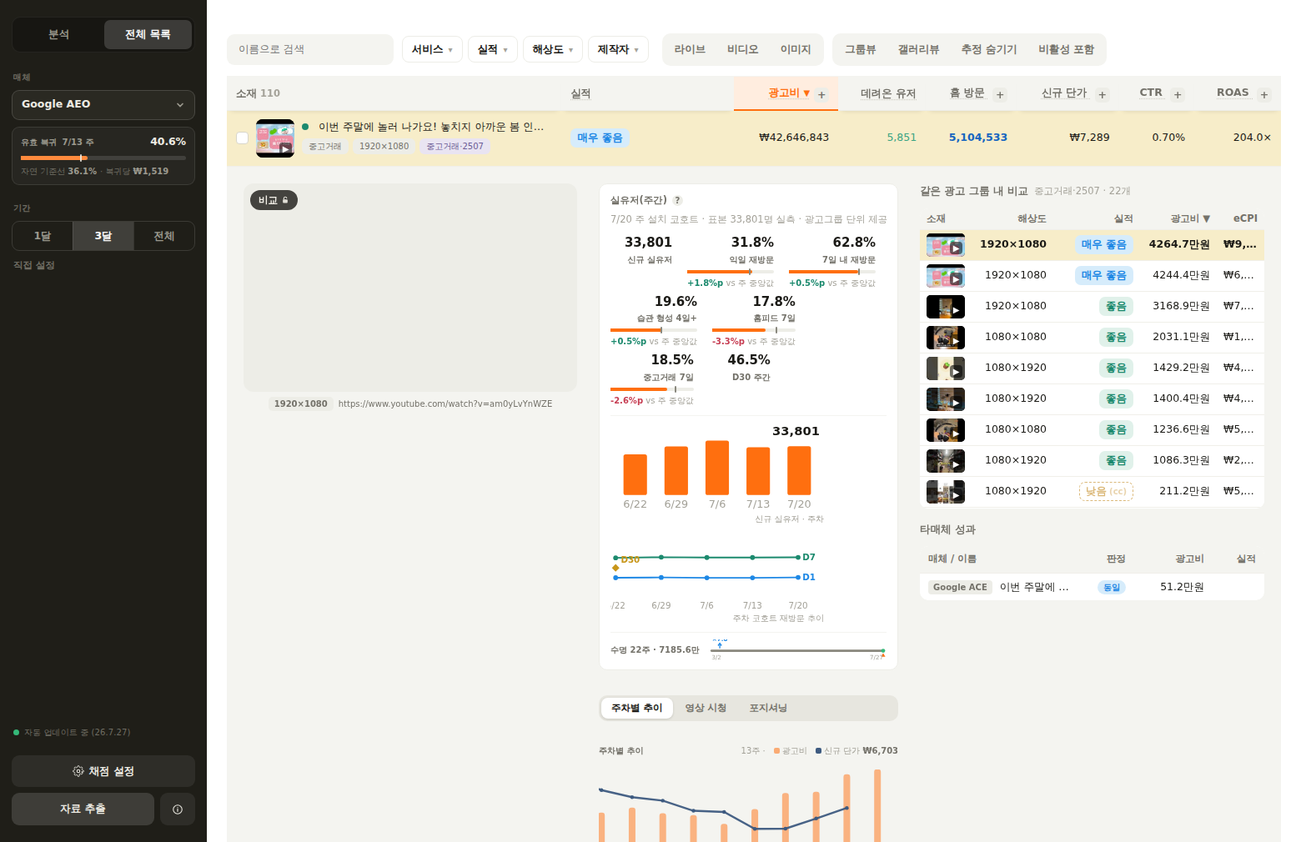
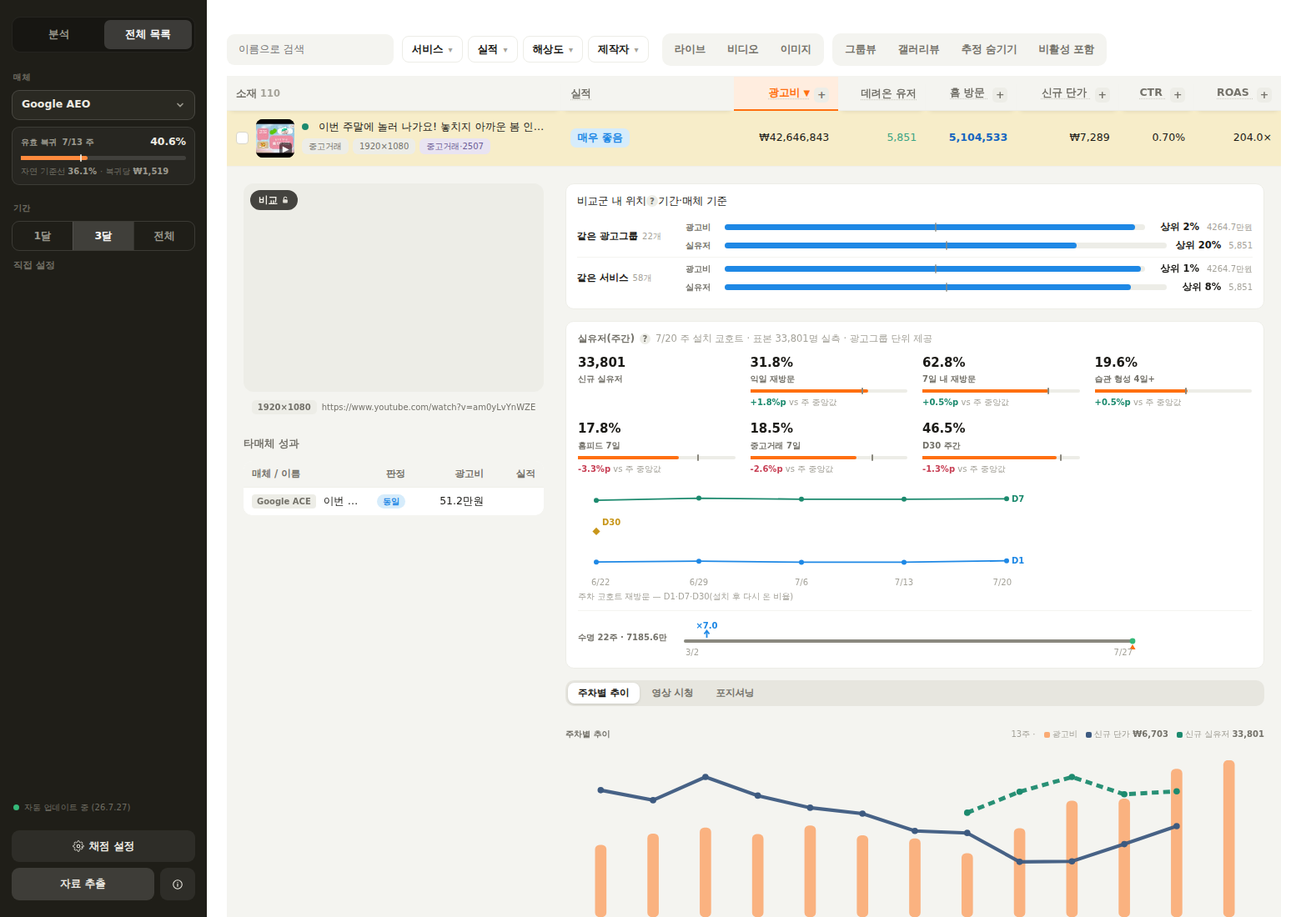
소재 상세 재편 — 2열 구성 · 비교군 백분위 신설 · 중복 차트 통합
레이아웃:
- 3열 → 2열. [미리보기 + 타매체 성과] | [실증·그래프]. 타매체 성과는 같은 소재의 다른
  매체 버전이라 미디어 바로 아래로 이동
- '같은 광고그룹 내 비교' 목록 제거 — 그룹 안 상대 위치는 새 백분위 블록이 더 압축적으로
  답한다(목록 22행 대신 막대 2개)

비교군 내 위치(신설):
- 같은 광고그룹·같은 서비스 두 비교군에서 광고비(예산이 몰린 정도)와 실유저(실제 데려온 수)의
  백분위를 한 줄 막대로. 회색 눈금=비교군 중앙값, "상위 N%" 병기
- 실유저 기준은 표의 '데려온 유저'와 동일(구글=first_open, 몰로코·메타=신규+재활성).
  채점용 규모축은 구글에서 노출이라 쓰지 않음 — 사용자가 보는 수치와 어긋나므로

차트 통합·가독성:
- 신규 실유저를 별도 막대차트로 두지 않고 주차별 추이에 초록 점선으로 합침(같은 주차 축).
  실유저 블록에는 성격이 다른 코호트 재방문(D1·D7·D30)만 남김
- 재방문 추이는 y축을 0이 아닌 실제 값 범위로 — 라인차트라 0 기준이 필수가 아니고 그래야
  주 단위 변화가 보인다. 폭·높이 비율도 변화가 읽히게 조정
- 라이프사이클 타임라인의 잘린 라벨 수정(위·아래 여백 확보), 재방문 축 양끝 라벨 안쪽 정렬
- 상세는 표 td 안이라 text-align:right가 상속된다 — 블록 루트에서 끊어 값·라벨 우측 쏠림 해소
- 스탯을 균등 그리드로 정렬하고 D30에도 중앙값 대비 막대를 붙여 형식 통일

Claude-Session: https://claude.ai/code/session_01MTtavjs5eMP9qoMEN7bzkC

diff --git a/index.html b/index.html
@@ -243,13 +243,29 @@
   .glb-lgd{display:flex;gap:12px;flex-wrap:wrap;font-size:var(--fs-1);color:var(--muted);margin-top:7px}
   .glb-lgd i{display:inline-block;width:8px;height:8px;border-radius:2px;margin-right:4px;vertical-align:-1px}
 
+  /* 비교군 내 위치 — 같은 광고그룹·서비스에서의 백분위 */
+  .peer{padding:11px 13px;background:var(--surface);border:1px solid var(--surface-3);border-radius:10px;text-align:left}
+  .peer .us-h{margin-bottom:8px}
+  .peer-g{display:grid;grid-template-columns:118px minmax(0,1fr);gap:12px;align-items:center;padding:5px 0}
+  .peer-g+.peer-g{border-top:1px solid var(--surface-2)}
+  .peer-gl{font-size:var(--fs-2);font-weight:700;color:var(--ink);white-space:nowrap;overflow:hidden;text-overflow:ellipsis}
+  .peer-gl em{font-style:normal;font-weight:500;color:var(--faint);font-size:var(--fs-1);margin-left:5px}
+  .peer-bars{display:flex;flex-direction:column;gap:5px;min-width:0}
+  .peer-row{display:grid;grid-template-columns:38px minmax(40px,1fr) 56px max-content;align-items:center;gap:9px;font-size:var(--fs-1)}
+  .peer-row .pr-k{color:var(--muted);font-weight:650;white-space:nowrap}
+  .peer-row .pr-b{position:relative;height:7px;border-radius:4px;background:var(--surface-3)}
+  .peer-row .pr-b i{display:block;height:100%;background:var(--g2);border-radius:4px;min-width:2px}
+  .peer-row .pr-b u{position:absolute;left:50%;top:-2px;bottom:-2px;width:2px;background:var(--mid);opacity:.7;border-radius:1px}
+  .peer-row .pr-v{font-size:var(--fs-2);font-weight:750;color:var(--ink);white-space:nowrap;text-align:right}
+  .peer-row .pr-x{color:var(--faint);white-space:nowrap}
+
   /* 소재 상세 — 실유저(주간) 블록: 그래프 탭 위 상시 노출 스트립 */
-  .umet-strip{margin:0 0 14px;padding:11px 13px;background:var(--surface);border:1px solid var(--surface-3);border-radius:10px}
+  .umet-strip{margin:0;padding:12px 14px;background:var(--surface);border:1px solid var(--surface-3);border-radius:10px;text-align:left}
   .umet-strip .us-h{font-size:var(--fs-2);font-weight:700;color:var(--muted);display:flex;align-items:center;gap:6px;flex-wrap:wrap}
   .umet-strip .us-h .n{font-weight:500;color:var(--faint)}
   .umet-strip .us-h .uc-q{width:13px;height:13px}
-  .umet-stats{display:flex;gap:4px 18px;flex-wrap:wrap;margin-top:8px}
-  .umet-stat{min-width:74px}
+  .umet-stats{display:grid;grid-template-columns:repeat(auto-fit,minmax(178px,1fr));gap:13px 18px;margin-top:9px}
+  .umet-stat{min-width:0}
   .umet-stat .us-v{font-size:var(--fs-4);font-weight:750;letter-spacing:-.01em;display:block}
   .umet-stat .us-k{font-size:var(--fs-1);color:var(--muted);font-weight:600;display:block;margin-top:1px;white-space:nowrap}
   .umet-stat .us-bar{position:relative;height:4px;border-radius:2px;background:var(--surface-3);margin-top:5px;overflow:visible;min-width:64px}
@@ -259,7 +275,7 @@
   .umet-stat .us-d b{font-weight:700}
   /* 상세 블록 확장 — 주차 추이 미니차트 · 소재별 유효 복귀 · 라이프사이클 */
   .us-charts{display:flex;gap:18px;flex-wrap:wrap;margin-top:10px;padding-top:9px;border-top:1px solid var(--surface-2)}
-  .us-mini{flex:1 1 200px;min-width:186px;max-width:256px} /* viewBox 폭(200·248)에 맞춰 배율≈1 유지 */
+  .us-mini{width:100%;max-width:560px} /* viewBox 폭 560에 맞춰 배율≤1 — 글자가 확대되지 않게 */
   .us-mini svg{display:block;width:100%;height:auto}
   .us-cap{font-size:var(--fs-1);color:var(--faint);display:block;margin-top:2px}
   .us-sec{display:flex;align-items:center;gap:10px;margin-top:9px;padding-top:8px;border-top:1px solid var(--surface-2)}
@@ -272,7 +288,7 @@
   .us-rbar u{position:absolute;top:-2px;bottom:-2px;width:2px;background:var(--ink);opacity:.65;border-radius:1px}
   .us-rrow b{font-weight:750}
   .us-cpv{font-size:var(--fs-1);color:var(--muted)}
-  .us-life{flex:1;min-width:0;display:block;height:auto;max-width:300px}
+  .us-life{flex:1;min-width:0;display:block;height:auto;max-width:560px}
 
   svg.chart{display:block;overflow:visible;max-width:100%}
   .axis text{font-size:var(--fs-1);fill:var(--faint)} .gl{stroke:#E6E5DE;stroke-dasharray:2 3}
@@ -666,16 +682,14 @@
      미디어 프레임은 소재 비율에 따라 3종(ar-v 세로 / ar-s 정방 / ar-h 가로)으로 폭·높이 전환 */
   .isle{position:sticky;left:0;box-sizing:border-box;padding:20px;min-width:0}
   /* 한 줄 3열: [미리보기 | 주차별 추이+지표별 위치(세로) | 같은 그룹 비교] — 모바일은 중요도 순 스택 */
-  .isle-row3{display:grid;gap:26px;align-items:start;
-    grid-template-columns:280px minmax(0,1fr) minmax(0,1.25fr);
-    grid-template-areas:"media mid cmp"}
-  .isle.ar-v .isle-row3{grid-template-columns:232px minmax(0,1fr) minmax(0,1.25fr)}
-  .isle.ar-h .isle-row3{grid-template-columns:400px minmax(0,1fr) minmax(0,1.15fr)}
-  .isle-row3.nomedia{grid-template-columns:minmax(0,1fr) minmax(0,1.4fr);grid-template-areas:"mid cmp"}
-  .isle-row3>*{min-width:0}
-  .ir-media{grid-area:media;display:flex;flex-direction:column;gap:6px;min-width:0}
-  .ir-mid{grid-area:mid;display:flex;flex-direction:column;gap:16px;min-width:0}
-  .ir-cmp{grid-area:cmp}
+  /* 상세 2열 — [미리보기 + 타매체 성과] | [실증·그래프]. 그룹 내 비교 목록은 '비교군 내 위치'가 대신한다 */
+  .isle-row2{display:grid;gap:26px;align-items:start;grid-template-columns:300px minmax(0,1fr)}
+  .isle.ar-v .isle-row2{grid-template-columns:250px minmax(0,1fr)}
+  .isle.ar-h .isle-row2{grid-template-columns:360px minmax(0,1fr)}
+  .isle-row2.nomedia{grid-template-columns:minmax(0,1fr)}
+  .isle-row2>*{min-width:0}
+  .ir-media{display:flex;flex-direction:column;gap:10px;min-width:0}
+  .ir-mid{display:flex;flex-direction:column;gap:14px;min-width:0}
   .isle-frame{width:100%;height:280px;background:var(--surface-3);border-radius:12px;display:grid;place-items:center;overflow:hidden;position:relative}
   .isle.ar-v .isle-frame{height:396px}
   .isle.ar-h .isle-frame{height:250px}
@@ -760,14 +774,13 @@
   .meta-pv-t{font-size:var(--fs-4);font-weight:800;color:#1b4bd8}
   .meta-pv-s{font-size:var(--fs-2);color:var(--muted);font-weight:600;max-width:210px;line-height:1.4}
   .tthumb.meta-th{background:#1b3a8f;color:#fff;font-size:var(--fs-1);font-weight:800;letter-spacing:.3px;cursor:default}
-  @media(max-width:1200px){.isle-row3{gap:20px}
-    .isle-row3,.isle.ar-v .isle-row3{grid-template-columns:260px minmax(0,1fr) minmax(0,1.25fr)}
-    .isle.ar-h .isle-row3{grid-template-columns:320px minmax(0,1fr) minmax(0,1.15fr)}}
+  @media(max-width:1200px){.isle-row2{gap:20px}
+    .isle-row2,.isle.ar-v .isle-row2{grid-template-columns:250px minmax(0,1fr)}
+    .isle.ar-h .isle-row2{grid-template-columns:340px minmax(0,1fr)}}
   /* 좁은 폭: 미리보기 → 비교 → 추이·지표 순 1열, 프레임 폭 캡으로 회색 여백 방지 */
   @media(max-width:860px){
     .isle{padding:16px 14px}
-    .isle-row3,.isle.ar-v .isle-row3,.isle.ar-h .isle-row3{grid-template-columns:1fr;gap:18px;grid-template-areas:"media" "cmp" "mid"}
-    .isle-row3.nomedia{grid-template-columns:1fr;grid-template-areas:"cmp" "mid"}
+    .isle-row2,.isle.ar-v .isle-row2,.isle.ar-h .isle-row2{grid-template-columns:1fr;gap:18px}
     .ir-media .isle-frame{max-width:320px;margin:0 auto}
     .isle.ar-h .ir-media .isle-frame{max-width:420px}
     .ir-media .asset-src{text-align:center}}
@@ -3649,6 +3662,17 @@ function creativeTrendHTML(ds,e){
     const mx=Math.max(...vals.filter(v=>v!=null))*1.12||1;
     let last=null;for(let i=vals.length-1;i>=0;i--)if(vals[i]!=null){last=vals[i];break;}
     lines.push({lab:sp.lab,w:sp.w,col:LINE_COLS[lines.length],fmt:wm.fmt,vals,mx,last});}
+  /* 실증 신규 실유저(umetrics) — 별도 차트를 두지 않고 같은 주차 축에 얹는다.
+     소재당 몇 주치만 있는 부분 데이터라 선은 값이 있는 구간만 이어진다 */
+  {const _tr=(typeof umTrendFor==="function")?umTrendFor(ds,e):null;
+    if(_tr&&_tr.weeks.length){
+      const m=new Map(_tr.weeks.filter(o=>o.nu!=null).map(o=>[o.w,o.nu]));
+      if(m.size>=2){
+        const vals=ws.map(w=>m.has(w)?m.get(w):null);
+        const mx=Math.max(...m.values())*1.12||1;
+        let last=null;for(let i=vals.length-1;i>=0;i--)if(vals[i]!=null){last=vals[i];break;}
+        tipSpecs.push({lab:"신규 실유저",w:0,fmt:fmtInt,vals});
+        lines.push({lab:"신규 실유저",w:0,col:"var(--g1)",fmt:fmtInt,vals,mx,last,dash:1});}}}
   /* 주별 실적 라벨(구글 실측 — 그 주 리포트의 실적 값) — 날짜 밑 한 줄로 추이를 라벨과 함께 읽는다 */
   const _plW={};
   if(!e._isGroup){const _nc=ds.L.nameCol;
@@ -3682,7 +3706,7 @@ function creativeTrendHTML(ds,e){
       const x=xat(i),y=pt+(1-v/ln.mx)*ih;
       p+=st?` L ${x.toFixed(1)} ${y.toFixed(1)}`:`M ${x.toFixed(1)} ${y.toFixed(1)}`;st=true;
       dots+=`<circle cx="${x.toFixed(1)}" cy="${y.toFixed(1)}" r="1.4" fill="${ln.col}"/>`;});
-    s+=`<path d="${p}" fill="none" stroke="${ln.col}" stroke-width="1.5" stroke-opacity="0.95"/>${dots}`;}
+    s+=`<path d="${p}" fill="none" stroke="${ln.col}" stroke-width="${ln.dash?1.8:1.5}"${ln.dash?' stroke-dasharray="3 2"':''} stroke-opacity="0.95"/>${dots}`;}
   /* 범례는 최소한으로: 주 수 · 색=지표 매핑 · 최신값. 비율·설명은 푸터/툴팁이 담당(중복 금지) */
   const leg=lines.map(ln=>`<span><i class="lgd" style="background:${ln.col}"></i>${ln.lab} <b>${ln.last!=null?ln.fmt(ln.last):"–"}</b></span>`).join(" ");
   return `<div class="ispark"><div class="ispark-h">주차별 추이 <span>${ws.length}주 · <i class="lgd" style="background:var(--karrot);opacity:.55"></i>광고비 ${leg}</span></div><div class="ispark-scroll"><svg class="ispark-svg" viewBox="0 0 ${W} ${H}" style="width:${Math.round(W*1.6)}px;min-width:100%;height:auto">${s}</svg></div></div>`;}
@@ -3873,6 +3897,54 @@ function qualityHTML(ds,e){
 /* ═════ 소재 상세 — 실유저(주간) 블록: umetrics weeks.{주차}.cohort 실증치 ═════
    "매체|소재"(구글은 "[그룹] 광고그룹명") 키로 최신 주부터 조회. 값 없으면 미렌더.
    각 % 통계엔 그 주 전체 코호트 분포로 만든 막대(0~주 최대)와 중앙값 눈금을 붙여 한눈에 상대 위치를 읽게 한다 */
+/* ═════ 비교군 내 위치 — 같은 광고그룹 / 같은 서비스에서 이 소재의 수준 ═════
+   "이 소재가 잘한 건가?"는 절대값이 아니라 또래 대비로만 답할 수 있다. 두 비교군(같은 광고그룹·같은 서비스)에서
+   광고비(예산이 얼마나 몰렸나)와 실유저(실제로 몇 명을 데려왔나)의 백분위를 한 줄 막대로 보여준다.
+   막대 채움=백분위(오른쪽일수록 상위), 회색 눈금=비교군 중앙값 위치(항상 50%), 값은 텍스트로 병기. */
+function peerRankHTML(ds,e){
+  if(!ds||!e||e._isGroup)return "";
+  /* '실유저' = 표의 '데려온 유저'와 같은 기준 — 구글은 first_open(앱 최초 실행), 몰로코·메타는 신규+재활성(AUU).
+     채점용 규모축(reachKeyFor)은 구글에서 노출이라 여기 쓰지 않는다(사용자가 보는 '데려온 유저'와 어긋남) */
+  const rk=(ds.agg||[]).some(p=>p&&p._g_firstOpen!=null)?"_g_firstOpen"
+    :((ds.agg||[]).some(p=>p&&p["신규+재활성 유저 수"]!=null)?"신규+재활성 유저 수":"어트리뷰션 수");
+  const rkLab="실유저";
+  const pool=(ds.agg||[]).filter(p=>p&&!p._isGroup&&(p.비용||0)>0);
+  if(pool.length<4)return "";
+  const gid=e._g_adGroupId||e._m_group||null;
+  const svc=(typeof svcOf==="function")?svcOf(e):null;
+  const groups=[];
+  if(gid){const g=pool.filter(p=>String(p._g_adGroupId||p._m_group||"")===String(gid));
+    if(g.length>=4){const raw=e._m_group?gid:adGroupLabel(gid);
+      groups.push({key:"grp",lab:"같은 광고그룹",sub:raw?trunc(groupPrettyName(raw),20):("그룹 "+String(gid).slice(-4)),list:g});}}
+  if(svc){const g=pool.filter(p=>svcOf(p)===svc);
+    if(g.length>=4&&(!groups.length||g.length!==groups[0].list.length))groups.push({key:"svc",lab:"같은 서비스",sub:svc,list:g});}
+  if(!groups.length){const g=pool;if(g.length>=6)groups.push({key:"all",lab:"이 매체 전체",sub:String(ds.media||""),list:g});}
+  if(!groups.length)return "";
+  /* 백분위(0~100) — 동률 안전 중위 순위. 값이 없으면 null */
+  const pct=(list,val,key)=>{
+    if(val==null||!isFinite(val))return null;
+    const vs=list.map(p=>+p[key]).filter(v=>v!=null&&isFinite(v));
+    if(vs.length<4)return null;
+    let lo=0,hi=0;for(const v of vs){if(v<val)lo++;if(v<=val)hi++;}
+    return (lo+hi)/(2*vs.length)*100;};
+  const rows=[];
+  for(const g of groups){
+    const cells=[["비용","광고비",v=>fmtKRW(v)+"원"],[rk,rkLab,v=>fmtInt(v)]].map(([k,lab,fmt])=>{
+      const p=pct(g.list,+e[k],k);
+      if(p==null)return null;
+      const better=Math.round(100-p); /* 상위 N% */
+      return {lab,p,better,txt:fmt(+e[k]),
+        tip:`<b>${g.lab}(${g.list.length}개) · ${lab}</b><br>이 소재 ${fmt(+e[k])} — <b>상위 ${better}%</b>(백분위 ${p.toFixed(0)})<br>회색 눈금 = 비교군 중앙값`};}).filter(Boolean);
+    if(cells.length)rows.push({g,cells});}
+  if(!rows.length)return "";
+  return `<div class="peer">
+    <div class="us-h">비교군 내 위치<span class="uc-q" data-tip="${escAttr(`<b>또래 대비 위치</b><br>같은 광고그룹·같은 서비스 소재들 사이에서 이 소재의 백분위입니다.<br>광고비 = 예산이 얼마나 몰렸나(머신러닝 신호) · ${escHtml(rkLab)} = 실제로 몇 명을 데려왔나.<br>둘 다 상위면 위너, 광고비만 상위면 재검토 대상.`)}">?</span><span class="n">기간·매체 기준</span></div>
+    ${rows.map(r=>`<div class="peer-g"><div class="peer-gl" title="${escAttr(r.g.sub)}">${r.g.lab}<em>${r.g.list.length}개</em></div>
+      <div class="peer-bars">${r.cells.map(c=>`<div class="peer-row" data-tip="${escAttr(c.tip)}">
+        <span class="pr-k">${c.lab}</span>
+        <span class="pr-b"><i style="width:${Math.max(2,Math.min(100,c.p)).toFixed(1)}%"></i><u></u></span>
+        <b class="pr-v num">상위 ${c.better}%</b><span class="pr-x num">${c.txt}</span></div>`).join("")}</div></div>`).join("")}
+  </div>`;}
 function umCohortHTML(ds,e){
   const hit=umCohortFor(ds,e),tr=umTrendFor(ds,e),re=umReengFor(ds,e),lf=umLifeFor(ds,e);
   if(!hit&&!tr&&!re&&!lf)return "";
@@ -3900,47 +3972,45 @@ function umCohortHTML(ds,e){
   pctStat("habit4","습관 형성 4일+","첫 주 4일 이상 방문 — 습관 형성 신호");
   pctStat("home7","홈피드 7일","7일 내 홈피드 방문 비율");
   pctStat("flea7","중고거래 7일","7일 내 중고거래 방문 비율");
-  if(tr&&tr.d30)stats.push({v:tr.d30.d30w.toFixed(1)+"%",k:"D30 주간",
-    tip:`<b>D30(주간 방문) ${tr.d30.d30w.toFixed(1)}%</b><br>${md(tr.d30.w)} 주 설치 코호트의 4주차(d0+25~31) 주간 방문율 · 표본 ${fmtInt(tr.d30.n)}명<br>${base}`});
+  if(tr&&tr.d30){
+    /* D30도 같은 주차 코호트 분포와 비교 — 다른 스탯과 같은 형식(막대+중앙값 눈금) */
+    const dk=Object.keys(UMET||{}).find(k=>new RegExp("^d30_w"+tr.d30.w.slice(5,7)+tr.d30.w.slice(8,10)+"$").test(k));
+    const dp=[];if(dk)for(const v of umNMap(UMET[dk]).values()){const x=+(v&&v.d30w);if(isFinite(x))dp.push(x);}
+    dp.sort((a,b)=>a-b);
+    const dmed=dp.length>=4?quantile(dp,0.5):null,dmx=dp.length?Math.max(dp[dp.length-1],tr.d30.d30w):tr.d30.d30w;
+    const dd=dmed!=null?tr.d30.d30w-dmed:null;
+    stats.push({v:tr.d30.d30w.toFixed(1)+"%",k:"D30 주간",
+      bar:dmx>0?{w:tr.d30.d30w/dmx*100,t:dmed!=null?dmed/dmx*100:null}:null,
+      d:dmed!=null?`<b style="color:${dd>=0?"var(--g1)":"var(--w2)"}">${dd>=0?"+":""}${dd.toFixed(1)}%p</b> vs 주 중앙값`:null,
+      tip:`<b>D30(주간 방문) ${tr.d30.d30w.toFixed(1)}%</b><br>${md(tr.d30.w)} 주 설치 코호트의 4주차(d0+25~31) 주간 방문율 · 표본 ${fmtInt(tr.d30.n)}명${dmed!=null?`<br>같은 주 코호트 중앙값 ${dmed.toFixed(1)}%`:""}<br>${base}`});}
   /* ── ② 주차 추이 미니 차트: 신규 실유저 막대 + D1/D7 라인(+D30 마커) ── */
   let charts="";
   if(tr&&tr.weeks.length){
     const wks=tr.weeks;
-    const nuW=wks.filter(o=>o.nu!=null);
-    let nuSvg="";
-    if(nuW.length>=2){
-      const W=200,H=82,pt=16,pb=15,pl=4,pr=4,iw=W-pl-pr,ih=H-pt-pb;
-      const mx=Math.max(...nuW.map(o=>o.nu))||1;
-      const bw=Math.min(22,iw/nuW.length-4);
-      let g="";
-      nuW.forEach((o,i)=>{const x=pl+(i+0.5)*(iw/nuW.length)-bw/2,bh=Math.max(1.5,o.nu/mx*ih);
-        g+=`<rect x="${x.toFixed(1)}" y="${(pt+ih-bh).toFixed(1)}" width="${bw.toFixed(1)}" height="${bh.toFixed(1)}" rx="2" fill="var(--karrot)" data-tip="${escAttr(`<b>${md(o.w)} 주</b><br>신규 실유저 ${fmtInt(o.nu)}명`)}"/>`;
-        g+=`<text x="${(x+bw/2).toFixed(1)}" y="${H-3}" text-anchor="middle" font-size="10" fill="var(--faint)">${md(o.w)}</text>`;});
-      const last=nuW[nuW.length-1];
-      g+=`<text x="${W-pr}" y="${pt-5}" text-anchor="end" font-size="11.5" font-weight="700" fill="var(--ink)">${fmtInt(last.nu)}</text>`;
-      nuSvg=`<div class="us-mini"><svg viewBox="0 0 ${W} ${H}">${g}</svg><span class="us-cap">신규 실유저 · 주차</span></div>`;}
     const rtW=wks.filter(o=>o.d1!=null||o.d7!=null);
-    let rtSvg="";
     if(rtW.length>=2||(rtW.length>=1&&tr.d30)){
-      const W=248,H=82,pt=14,pb=15,pl=6,pr=30,iw=W-pl-pr,ih=H-pt-pb;
-      const vals=[...rtW.map(o=>o.d1||0),...rtW.map(o=>o.d7||0),tr.d30?tr.d30.d30w:0];
-      const mx=Math.max(...vals,10)*1.12;
-      const X=i=>pl+(rtW.length<2?iw/2:i/(rtW.length-1)*iw),Y=v=>pt+(1-v/mx)*ih;
+      /* 코호트 재방문 추이(질) — 규모(신규 실유저)는 아래 '주차별 추이'가 같은 축에서 보여준다 */
+      const W=560,H=136,pt=18,pb=22,pl=22,pr=46,iw=W-pl-pr,ih=H-pt-pb;
+      const vals=[...rtW.map(o=>o.d1),...rtW.map(o=>o.d7),tr.d30?tr.d30.d30w:null].filter(v=>v!=null&&isFinite(v));
+      /* 라인차트라 0에서 시작할 필요가 없다 — 실제 값 범위로 축을 잡아야 주 단위 변화가 보인다(막대와 다름) */
+      const vlo=Math.max(0,Math.min(...vals)-4),vhi=Math.max(...vals)+4;
+      const X=i=>pl+(rtW.length<2?iw/2:i/(rtW.length-1)*iw),Y=v=>pt+(1-(v-vlo)/Math.max(1,vhi-vlo))*ih;
       let g="";
       const line=(k,col)=>{const pts=rtW.map((o,i)=>o[k]!=null?[X(i),Y(o[k]),o]:null).filter(Boolean);
         if(pts.length>=2){let d=`M ${pts[0][0].toFixed(1)} ${pts[0][1].toFixed(1)}`;for(let i=1;i<pts.length;i++)d+=` L ${pts[i][0].toFixed(1)} ${pts[i][1].toFixed(1)}`;
           g+=`<path d="${d}" fill="none" stroke="${col}" stroke-width="1.8"/>`;}
-        pts.forEach(p=>{g+=`<circle cx="${p[0].toFixed(1)}" cy="${p[1].toFixed(1)}" r="2.8" fill="${col}" data-tip="${escAttr(`<b>${md(p[2].w)} 주 코호트</b><br>${k.toUpperCase()} ${p[2][k].toFixed(1)}%${p[2].n?` · 표본 ${fmtInt(p[2].n)}명`:""}<br>${base}`)}"/>`;});
+        pts.forEach(p=>{g+=`<circle cx="${p[0].toFixed(1)}" cy="${p[1].toFixed(1)}" r="3" fill="${col}" data-tip="${escAttr(`<b>${md(p[2].w)} 주 코호트</b><br>${k.toUpperCase()} ${p[2][k].toFixed(1)}%${p[2].n?` · 표본 ${fmtInt(p[2].n)}명`:""}<br>${base}`)}"/>`;});
         if(pts.length){const lp=pts[pts.length-1];
-          g+=`<text x="${(lp[0]+5).toFixed(1)}" y="${(lp[1]+3.5).toFixed(1)}" font-size="10" font-weight="700" fill="${col}">${k.toUpperCase()}</text>`;}};
+          g+=`<text x="${(lp[0]+6).toFixed(1)}" y="${(lp[1]+3.5).toFixed(1)}" font-size="10" font-weight="700" fill="${col}">${k.toUpperCase()}</text>`;}};
       line("d1","var(--g2)");line("d7","var(--g1)");
       if(tr.d30){const i=rtW.findIndex(o=>o.w===tr.d30.w);
         const x=i>=0?X(i):X(0),y=Y(tr.d30.d30w);
-        g+=`<path d="M ${x.toFixed(1)} ${(y-4.4).toFixed(1)} L ${(x+4.4).toFixed(1)} ${y.toFixed(1)} L ${x.toFixed(1)} ${(y+4.4).toFixed(1)} L ${(x-4.4).toFixed(1)} ${y.toFixed(1)} Z" fill="var(--gold)" data-tip="${escAttr(`<b>D30(주간) ${tr.d30.d30w.toFixed(1)}%</b><br>${md(tr.d30.w)} 주 코호트의 4주차 주간 방문율 · 표본 ${fmtInt(tr.d30.n)}명`)}"/>`;
-        g+=`<text x="${(x+6).toFixed(1)}" y="${(y-6).toFixed(1)}" font-size="10" font-weight="700" fill="var(--gold)">D30</text>`;}
-      rtW.forEach((o,i)=>{g+=`<text x="${X(i).toFixed(1)}" y="${H-3}" text-anchor="middle" font-size="10" fill="var(--faint)">${md(o.w)}</text>`;});
-      rtSvg=`<div class="us-mini"><svg viewBox="0 0 ${W} ${H}">${g}</svg><span class="us-cap">주차 코호트 재방문 추이</span></div>`;}
-    if(nuSvg||rtSvg)charts=`<div class="us-charts">${nuSvg}${rtSvg}</div>`;}
+        g+=`<path d="M ${x.toFixed(1)} ${(y-4.6).toFixed(1)} L ${(x+4.6).toFixed(1)} ${y.toFixed(1)} L ${x.toFixed(1)} ${(y+4.6).toFixed(1)} L ${(x-4.6).toFixed(1)} ${y.toFixed(1)} Z" fill="var(--gold)" data-tip="${escAttr(`<b>D30(주간) ${tr.d30.d30w.toFixed(1)}%</b><br>${md(tr.d30.w)} 주 코호트의 4주차 주간 방문율 · 표본 ${fmtInt(tr.d30.n)}명`)}"/>`;
+        g+=`<text x="${(x+7).toFixed(1)}" y="${(y-7).toFixed(1)}" font-size="10" font-weight="700" fill="var(--gold)">D30</text>`;}
+      rtW.forEach((o,i)=>{const an=i===0?"start":(i===rtW.length-1?"end":"middle"); /* 양끝은 안쪽 정렬 — 캔버스 밖으로 잘리지 않게 */
+        const lx=i===0?X(i)-6:(i===rtW.length-1?X(i)+6:X(i));
+        g+=`<text x="${lx.toFixed(1)}" y="${H-4}" text-anchor="${an}" font-size="10" fill="var(--faint)">${md(o.w)}</text>`;});
+      charts=`<div class="us-mini"><svg viewBox="0 0 ${W} ${H}">${g}</svg><span class="us-cap">주차 코호트 재방문 — D1·D7·D30(설치 후 다시 온 비율)</span></div>`;}}
   /* ── ③ 소재별 유효 복귀(재관여) — 자연 기준선 눈금과 함께, 메타는 뷰스루 포함 표시 ── */
   let reengHtml="";
   if(re){
@@ -3956,17 +4026,17 @@ function umCohortHTML(ds,e){
       const lc=UMET.lifecycle;let maxL="";
       for(const k in lc){if(k==="basis")continue;const v=lc[k];if(v&&v.l&&v.l>maxL)maxL=v.l;}
       const ongoing=lf.l===maxL;
-      const W=300,H=34,pl=6,pr=6,base_y=19,iw=W-pl-pr;
+      const W=560,H=48,pl=12,pr=12,base_y=28,iw=W-pl-pr; /* 위=증액 라벨·아래=날짜 라벨 공간 확보(글자 잘림 방지) */
       const X=d=>{const t=Date.parse(d);return pl+(t1===t0?iw/2:(t-t0)/(t1-t0)*iw);};
       let g=`<line x1="${pl}" y1="${base_y}" x2="${W-pr}" y2="${base_y}" stroke="var(--surface-3)" stroke-width="4" stroke-linecap="round"/>`;
       g+=`<line x1="${pl}" y1="${base_y}" x2="${W-pr}" y2="${base_y}" stroke="var(--mid)" stroke-width="4" stroke-linecap="round" data-tip="${escAttr(`<b>집행 ${fmtInt(lf.wks)}주</b> · ${md(lf.f)} ~ ${md(lf.l)}${ongoing?" (진행중)":""}<br>누적 광고비 ${fmtKRW(lf.tot)}원${lf.hi?`<br>고소진 유지 ${fmtInt(lf.hi)}주(매체 상위 25% 이상)`:""}`)}"/>`;
       if(lf.rw&&isFinite(+lf.rx)){const x=X(lf.rw);
         g+=`<path d="M ${x.toFixed(1)} ${base_y-4} L ${x.toFixed(1)} ${base_y-11}" stroke="var(--g2)" stroke-width="1.8" marker-end="none"/><path d="M ${(x-3).toFixed(1)} ${base_y-8.5} L ${x.toFixed(1)} ${base_y-12.5} L ${(x+3).toFixed(1)} ${base_y-8.5}" fill="none" stroke="var(--g2)" stroke-width="1.8" data-tip="${escAttr(`<b>최대 증액 ×${(+lf.rx).toFixed(1)}</b> · ${md(lf.rw)} 주<br>직전 주 대비 주간 광고비 증가 배수`)}"/>`;
-        g+=`<text x="${x.toFixed(1)}" y="${base_y-16}" text-anchor="middle" font-size="10" font-weight="700" fill="var(--g2)">×${(+lf.rx).toFixed(1)}</text>`;}
+        g+=`<text x="${x.toFixed(1)}" y="${base_y-15}" text-anchor="middle" font-size="10" font-weight="700" fill="var(--g2)">×${(+lf.rx).toFixed(1)}</text>`;}
       if(lf.pk_w){const x=X(lf.pk_w);
         g+=`<path d="M ${x.toFixed(1)} ${base_y+4} L ${(x-3.6).toFixed(1)} ${base_y+10} L ${(x+3.6).toFixed(1)} ${base_y+10} Z" fill="var(--karrot)" data-tip="${escAttr(`<b>피크 주간 광고비 ${fmtKRW(lf.pk)}원</b> · ${md(lf.pk_w)} 주`)}"/>`;}
       g+=`<circle cx="${(W-pr).toFixed(1)}" cy="${base_y}" r="3.4" fill="${ongoing?"#35B979":"var(--faint)"}" data-tip="${escAttr(ongoing?"진행중 — 최신 주에도 집행":`중단 — 마지막 집행 ${md(lf.l)} 주`)}"/>`;
-      g+=`<text x="${pl}" y="${H-1}" font-size="10" fill="var(--faint)">${md(lf.f)}</text><text x="${W-pr}" y="${H-1}" text-anchor="end" font-size="10" fill="var(--faint)">${md(lf.l)}</text>`;
+      g+=`<text x="${pl}" y="${H-3}" font-size="10" fill="var(--faint)">${md(lf.f)}</text><text x="${W-pr}" y="${H-3}" text-anchor="end" font-size="10" fill="var(--faint)">${md(lf.l)}</text>`;
       lifeHtml=`<div class="us-sec"><span class="us-sk">수명 ${fmtInt(lf.wks)}주 · ${fmtKRW(lf.tot)}</span><svg class="us-life" viewBox="0 0 ${W} ${H}">${g}</svg></div>`;}}
   if(!stats.length&&!charts&&!reengHtml&&!lifeHtml)return "";
   /* 헤더 — 컨텍스트 최소 표기 + 상세 기준은 ? 툴팁 */
@@ -4474,7 +4544,7 @@ function renderIsleMid(ds,e,mid){if(!mid)return;
   const ph=positioningHTML(ds,e);if(ph)tabs.push({k:"pos",lab:"포지셔닝",html:ph});
   const cur=tabs.find(t=>t.k===ISLE.gtab)||tabs[0];
   /* 실유저(주간) 실증 블록 — 탭 위 상시 노출(탭 전환과 무관). 데이터 없으면 빈 문자열이라 미렌더 */
-  mid.innerHTML=(umCohortHTML(ds,e)||"")+(tabs.length>1?`<div class="dtog gtabs">${tabs.map(t=>`<button data-gt="${t.k}" class="${t.k===cur.k?"on":""}">${t.lab}</button>`).join("")}</div>`:"")+`<div class="gtab-body">${cur.html}</div>`;
+  mid.innerHTML=(peerRankHTML(ds,e)||"")+(umCohortHTML(ds,e)||"")+(tabs.length>1?`<div class="dtog gtabs">${tabs.map(t=>`<button data-gt="${t.k}" class="${t.k===cur.k?"on":""}">${t.lab}</button>`).join("")}</div>`:"")+`<div class="gtab-body">${cur.html}</div>`;
   mid.querySelectorAll(".gtabs button").forEach(b=>b.onclick=()=>{ISLE.gtab=b.dataset.gt;renderIsleMid(ds,e,mid);});
   /* 그래프 요소 공통 툴팁(data-tip) — 추이 막대·유지 곡선 점·산점도 점이 함께 쓴다 */
   mid.querySelectorAll("[data-tip]").forEach(el=>{
@@ -4488,57 +4558,10 @@ function renderIsleMid(ds,e,mid){if(!mid)return;
 /* 상세 — 한 줄 3열 [미리보기 | 그래프 탭(추이·영상 시청·포지셔닝) | 같은 그룹 비교].
    행에 이미 있는 이름·뱃지·칩은 반복하지 않고, 미디어 프레임은 소재 비율(세로/정방/가로)에 따라 3종 폭으로 전환 */
 function fillIsland(ds,e,inner){const L=ds.L;
-  const sp=t=>t==="g2"?"sp-g2":t==="g1"?"sp-g1":t==="m"?"sp-mid":t==="w1"?"sp-w1":t==="w2"?"sp-w2":"sp-na";
-  const isG=!!e._g_assetType;
-  const effK=L.key==="cg"?"CTR":L.effCol,effFmt=L.key==="cg"?fmtPct:fmtWon,effLab=L.key==="cg"?"CTR":L.effLabel;
-  let listHTML,listTitle,listMetaN;
-  const grpId=e._g_adGroupId||e._m_group;
-  if(grpId&&ds.byAdGr&&(ds.byAdGr.get(grpId)||[]).length){
-    /* 열 헤더 클릭 정렬 — 상태는 상세 이동 간 유지(ISLE.gSort). 기본 광고비 내림차순 */
-    const gs=ISLE.gSort&&ISLE.gSort.k?ISLE.gSort:(ISLE.gSort={k:"광고비",dir:-1});
-    const gSortVal=x=>{switch(gs.k){
-      case"해상도":{const ai=arInfoOf(x);return ai?ai.w*ai.h:null;}
-      case"실적":return perfSortKey(x);
-      case"효율":{const v=x[(L.key==="cg"?"CTR":L.effCol)];return v==null?null:v;}
-      default:return x.비용||0;}};
-    const grp=(ds.byAdGr.get(grpId)||[e]).slice().sort((a,b)=>{
-      const va=gSortVal(a),vb=gSortVal(b);
-      if(va==null&&vb==null)return (b.비용||0)-(a.비용||0);
-      if(va==null)return 1;if(vb==null)return -1;
-      return gs.dir*(va-vb)||((b.비용||0)-(a.비용||0));});
-    listTitle=e._m_group?"같은 크리에이티브 그룹 내 비교":"같은 광고 그룹 내 비교";
-    const _lgi=e._m_group?null:groupInfoOf(grpId);
-    const _lraw=e._m_group?grpId:adGroupLabel(grpId);
-    const _lst=_lgi?(/일시중지/.test(_lgi.st||"")||/일시중지/.test(_lgi.op||"")?" · 일시중지":(/제한/.test(_lgi.op||"")||/정책/.test(_lgi.rsn||"")?" · 정책 제한":"")):"";
-    listMetaN=`${_lraw?escHtml(trunc(groupPrettyName(_lraw),34)):"그룹 "+escHtml(String(grpId))} · ${grp.length}개${_lst}`;
-    const _gtrim=prefixTrimmer(grp.map(x=>displayNameOf(x)));
-    /* 이름 대신 작은 썸네일 — 이름칸이 길어 뒤 열이 안 보이던 문제. 이름은 호버 미리보기·툴팁이 담당, 해상도 열 추가 */
-    const _gArr=k2=>gs.k===k2?(gs.dir<0?" ▼":" ▲"):"";
-    listHTML=grp.length<=1?`<div class="fam-note">이 그룹에 다른 소재가 없습니다.</div>`:
-      `<div class="fam-wrap"><div class="fam fam-g"><table><thead><tr><th class="l">소재</th><th data-sk="해상도" title="클릭 = 정렬">해상도${_gArr("해상도")}</th><th data-sk="실적" title="클릭 = 정렬">실적${_gArr("실적")}</th><th data-sk="광고비" title="클릭 = 정렬">광고비${_gArr("광고비")}</th><th data-sk="효율" title="클릭 = 정렬">${effLab}${_gArr("효율")}</th></tr></thead><tbody>`+
-      grp.map(x=>{const url=previewUrlOf(x);
-        const typeShort=entTypeShort(x);
-        const emoji=entTypeEmoji(x);
-        const dn=displayNameOf(x);
-        const sz=arDispOf(x);
-        return `<tr class="${x.name===e.name?"me":""} hoverable" data-nm="${escAttr(x.name)}" data-preview="${escAttr(url)}" data-label="${escAttr(typeShort+' · '+trunc(dn,40))}" title="${escAttr(dn)}">
-        <td class="l">${thumbHTML(x)||`<span class="g-type-emoji">${emoji}</span>`}</td>
-        <td class="num" title="${escAttr(arDispTitle(x))}">${sz?escHtml(sz):"–"}</td>
-        <td>${perfPillHTML(x)}</td>
-        <td class="num">${fmtKRW(x.비용)}원</td><td class="num">${x[effK]!=null?effFmt(x[effK]):"–"}</td></tr>`;}).join("")+
-      `</tbody></table></div></div>`;
-  }else{
-    const fam=(ds.byFk.get(e._fk||familyKey(e.name))||[e]).slice().sort((a,b)=>(b.비용||0)-(a.비용||0));
-    listTitle="유사 이름 시리즈";listMetaN=`${fam.length}개`;
-    listHTML=fam.length<=1?`<div class="fam-note">유사 이름 시리즈가 없습니다.</div>`:
-      `<div class="fam-wrap"><div class="fam"><table><thead><tr><th class="l">이름</th><th>광고비</th><th>${effLab}</th><th>실적</th></tr></thead><tbody>`+
-      (()=>{const _ftrim=prefixTrimmer(fam.map(x=>displayNameOf(x)));
-      return fam.map(x=>{const dn=displayNameOf(x);
-        return `<tr class="${x.name===e.name?"me":""}" data-nm="${escAttr(x.name)}" title="${escAttr(dn)}"><td class="l">${escHtml(_ftrim(dn))}</td><td class="num">${fmtKRW(x.비용)}원</td><td class="num">${x[effK]!=null?effFmt(x[effK]):"–"}</td><td>${perfPillHTML(x)}</td></tr>`;}).join("");})()+
-      `</tbody></table></div></div>`;}
   const preview=assetPreview(previewUrlOf(e),e);
+  /* 타매체 성과 = 미리보기 바로 아래(같은 소재의 다른 매체 버전이라 미디어와 붙어 있는 게 자연스럽다).
+     '같은 광고그룹 내 비교' 목록은 제거 — 그룹 안 상대 위치는 아래 '비교군 내 위치' 백분위가 대신한다 */
   const _xmh=e._isGroup?"":crossBlockHTML(ds,e);
-  const cmpB=`<div class="ish">${listTitle} <span class="n">${listMetaN}</span></div>${listHTML}`+(_xmh?`<div class="xmedia-wrap">${_xmh}</div>`:"");
   /* 미디어 비율 클래스: 몰로코 해상도·유튜브는 즉시, 그 외 이미지는 로드 후(isleAr) 판정 */
   inner.classList.remove("ar-v","ar-h","ar-s");
   const _pu=previewUrlOf(e);
@@ -4546,7 +4569,8 @@ function fillIsland(ds,e,inner){const L=ds.L;
   else{const _res=e._m_res&&String(e._m_res).match(/(\d+)\s*[x×]\s*(\d+)/i);
     if(_res)applyIsleAr(inner,+_res[1],+_res[2]);else inner.classList.add("ar-s");}
   const sideMedia=e._isGroup?((gwStatHTML(e)||"")+(groupInfoHTML(groupInfoOf(e._g_adGroupId||e._m_group))||"")):preview; /* 그룹은 정확 소스+보고서 정보가 미디어 자리 */
-  inner.innerHTML=`<div class="isle-row3${sideMedia?"":" nomedia"}">${sideMedia?`<div class="ir-media">${sideMedia}</div>`:""}<div class="ir-mid"></div><div class="ir-cmp">${cmpB}</div></div>`;
+  const leftCol=(sideMedia||"")+(_xmh?`<div class="xmedia-wrap">${_xmh}</div>`:"");
+  inner.innerHTML=`<div class="isle-row2${leftCol?"":" nomedia"}">${leftCol?`<div class="ir-media">${leftCol}</div>`:""}<div class="ir-mid"></div></div>`;
   renderIsleMid(ds,e,inner.querySelector(".ir-mid"));
   const _xw=inner.querySelector(".xmedia-wrap");
   if(_xw)wireCrossBlock(_xw,ds);
@@ -4571,14 +4595,6 @@ function fillIsland(ds,e,inner){const L=ds.L;
     tr.addEventListener("mouseenter",ev=>{const h=assetPreviewTipHTML(url,lab);if(h)showTip(h,ev.clientX,ev.clientY,true);});
     tr.addEventListener("mousemove",ev=>{if(tip.style.opacity!=="0")placeTip(ev.clientX,ev.clientY);});
     tr.addEventListener("mouseleave",hideTip);});
-  /* 그룹 목록 정렬 — 해상도·실적·광고비·효율 헤더 클릭 시 그 기준으로 재정렬(같은 키 재클릭=방향 전환) */
-  inner.querySelectorAll(".fam-g thead th[data-sk]").forEach(th=>{
-    th.style.cursor="pointer";
-    th.addEventListener("click",ev=>{ev.stopPropagation();
-      const k=th.dataset.sk;
-      if(ISLE.gSort&&ISLE.gSort.k===k)ISLE.gSort.dir*=-1;
-      else ISLE.gSort={k,dir:-1};
-      fillIsland(ds,e,inner);});});
   /* 그룹 목록 해상도 '–' — 유튜브는 레터박스 실측(YTAR)으로, 직접 영상·이미지는 로드된 실측 치수로 제자리 채움.
      ⚠ 유튜브 썸네일 img(120×90)의 natural 크기를 영상 해상도로 읽으면 안 된다(전부 120×90으로 뜨던 버그) */
   inner.querySelectorAll(".fam-g tr[data-nm]").forEach(tr=>{
